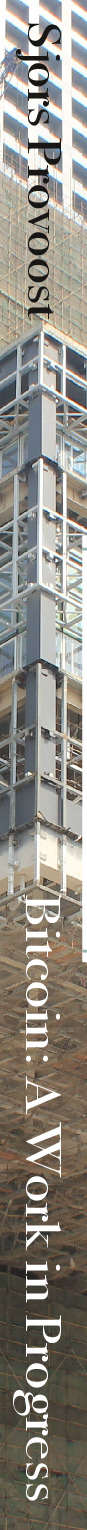
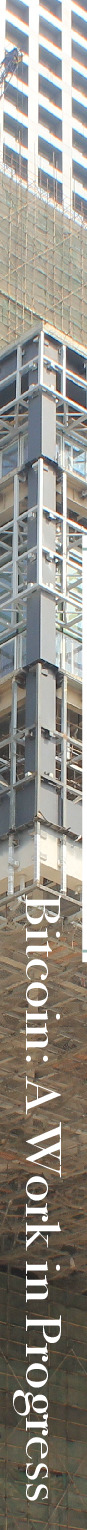
Drop author name from spine
Can't get enough contrast.

Changed region(s): [[0.1839, 0.0, 0.7126, 0.215]]

diff --git a/README.md b/README.md
@@ -37,7 +37,8 @@ To build a PDF that roughly fits an iPad:
 ```
 
 
-To generate the jpeg cover images, export to PDF but override color profile to RGB:
+To generate the jpeg cover images, export to PDF but set to PDF 1.6 and change
+Output Intended For to Screen / Web. Then do:
 
 ```sh
 cd meta
@@ -45,7 +46,6 @@ convert -density 180 -define pdf:use-trimbox=true nado-cover-rgb.pdf -crop 52.25
 mv slice-2.jpg ../docs/front.jpg
 mv slice-0.jpg ../docs/back.jpg
 mv slice-1.jpg spine.jpg
-
 ```
 
 ## Preview
